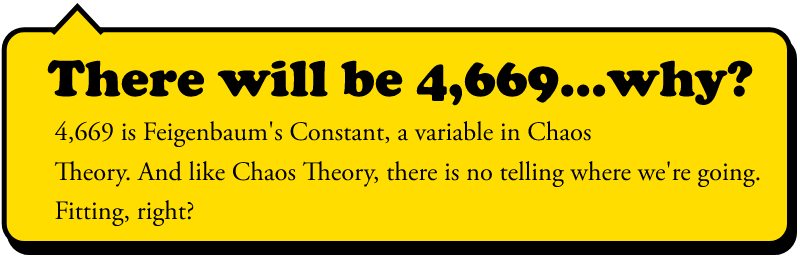
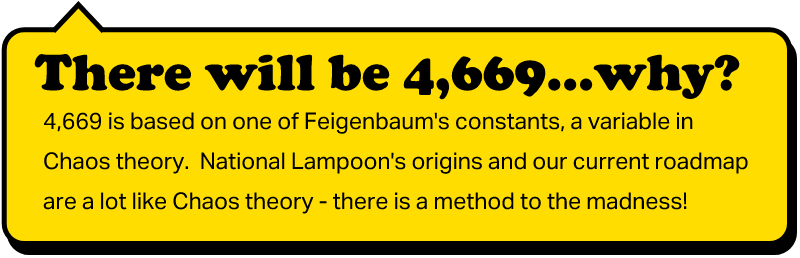
updated fonts and images

diff --git a/index.html b/index.html
@@ -67,7 +67,8 @@
             <div class="d-flex justify-content-between flex-wrap text-wrapper">
                 <div class="header-text">
                     <h1>Comedy is <br /> crash landing <br /> in Web3.</h1>
-                    <h4>National Lampoon (NL) Studios is a destination for artists, creators, <br>and people who like to laugh.
+                    <h4>National Lampoon ("NL") Studios is a destination for creators and
+                        <br> community who like to laugh.
                     </h4>
                 </div>
 
@@ -89,7 +90,9 @@
             <div class="d-flex justify-content-between align-items-center flex-wrap text-wrapper">
                 <div class="header-text">
                     <h2>A new age of comedy</h2>
-                    <h4>The Poison Pill is an all access pass. With the Poison Pill,<br> you will gain the ability to view behind the scenes, <br>extended/early-access trailers, pre-production art, <br>attend sets, red carpet events, comedy shows and more...</h4>
+                    <h4>The Poison Pill NFT is an all access pass. <br>With the Poison Pill, holders will enjoy the benefits <br>of everything from National Lampoon new and<br> catalog content, to special access/visits, <br>to airdropped collectibles, and
+                        much more.
+                        <br>NL Studios will begin revealing <br> more specifics in the coming weeks.</h4>
                 </div>
                 <div class="">
                     <video id="poison-pill-video" autoplay loop muted playsinline>
@@ -306,7 +309,7 @@
 
             </div>
             <div class="inquire">
-                For inquiries email, <a href="mailto:info@nationallampoon.com">info@nationallampoon.com</a>
+                For inquiries email <a href="mailto:info@nationallampoon.com">info@nationallampoon.com</a>
             </div>
         </div>
     </div>

diff --git a/css/style.css b/css/style.css
@@ -53,7 +53,7 @@ img {
 
 #home {
     position: relative;
-    height: 80vh;
+    height: 98vh;
 }
 
 #video {
@@ -181,6 +181,7 @@ img {
     }
     .navbar-brand img {
         height: 50px;
+        width: auto;
     }
     #home .header-links i {
         color: white;
@@ -193,6 +194,7 @@ img {
 @media only screen and (max-width: 980px) {
     .navbar-brand img {
         height: 30px;
+        width: auto;
     }
 }
 
@@ -243,7 +245,6 @@ img {
 }
 
 #poison-pill h4 {
-    font-family: adobe-garamond-pro, serif;
     color: black;
     font-size: 2.5rem;
 }
